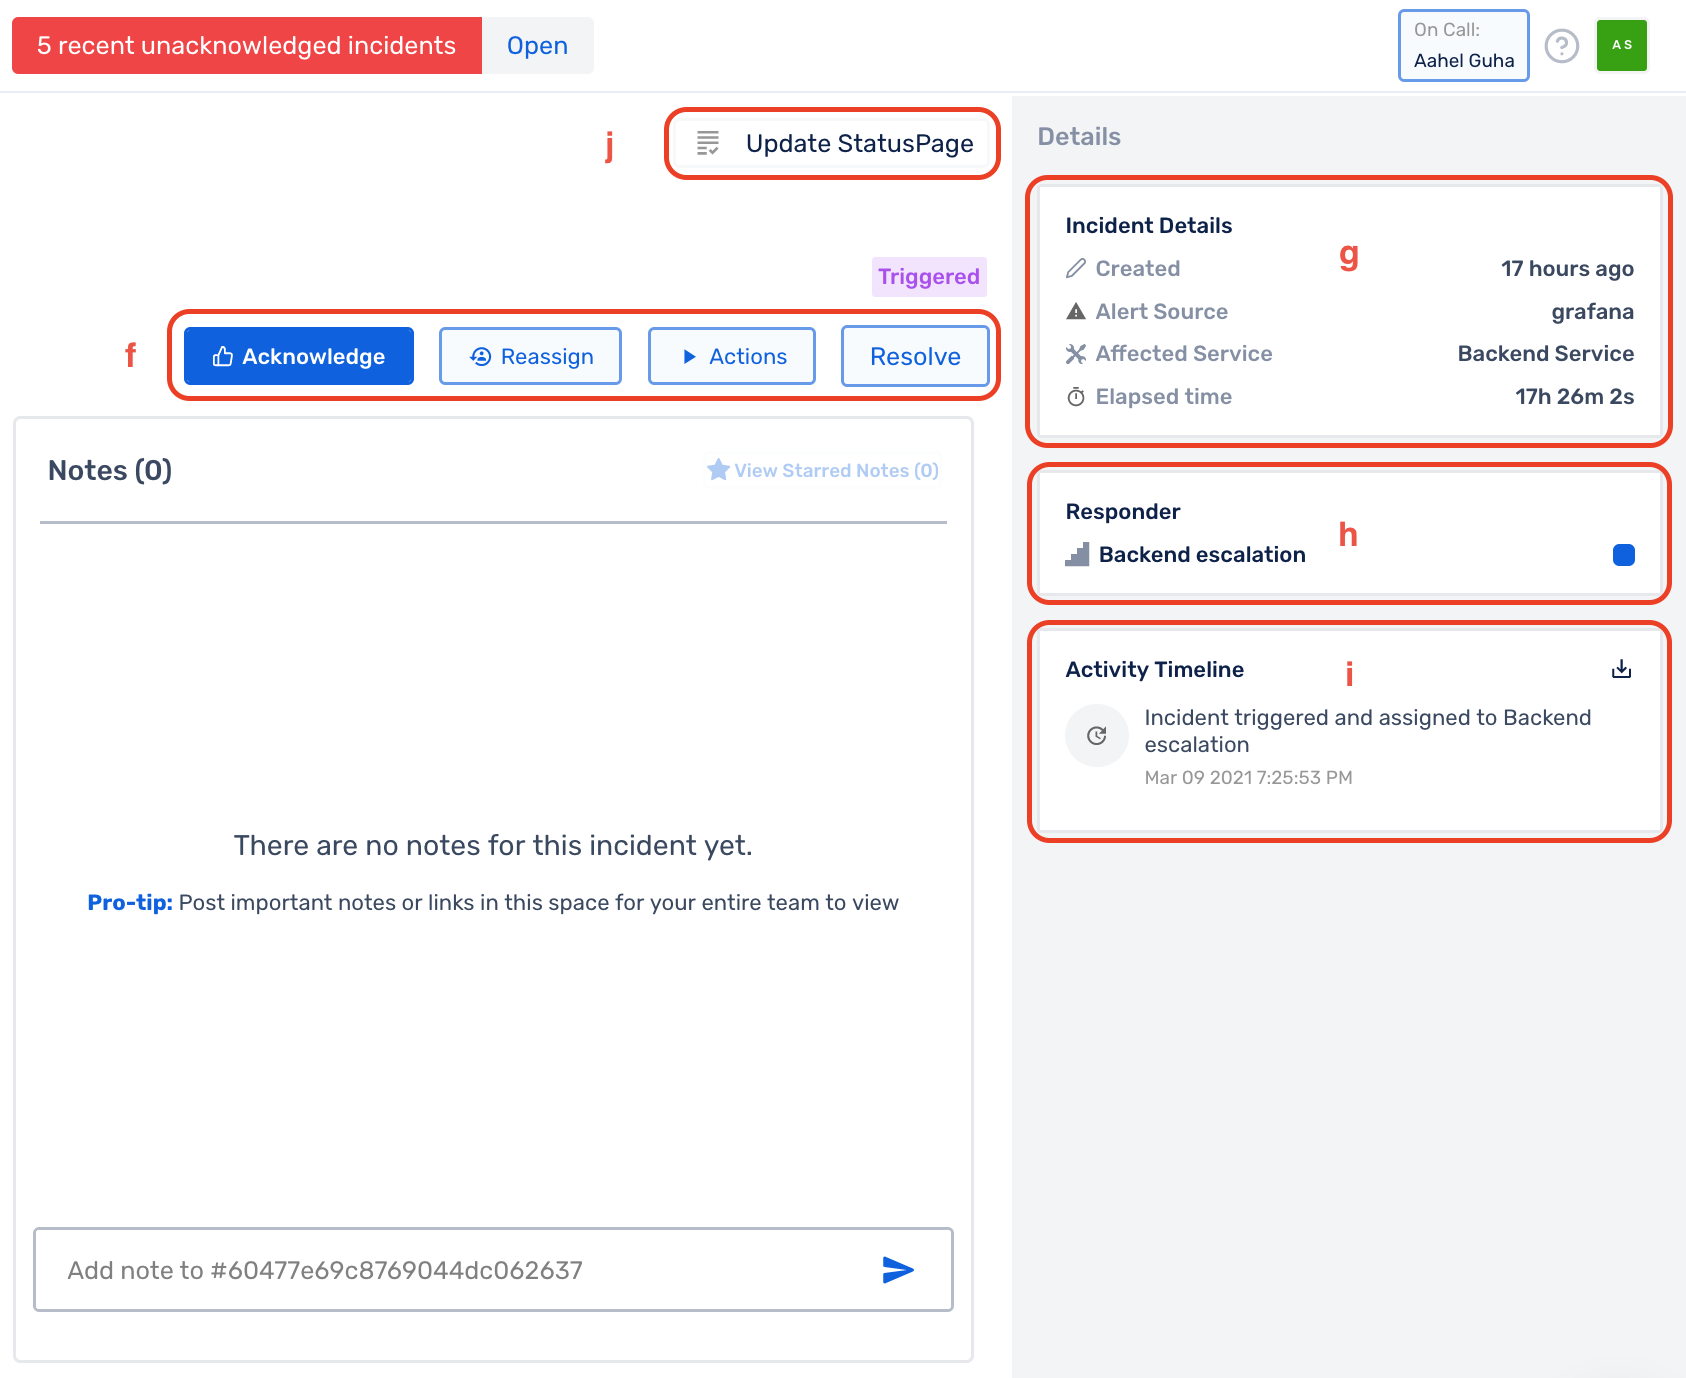
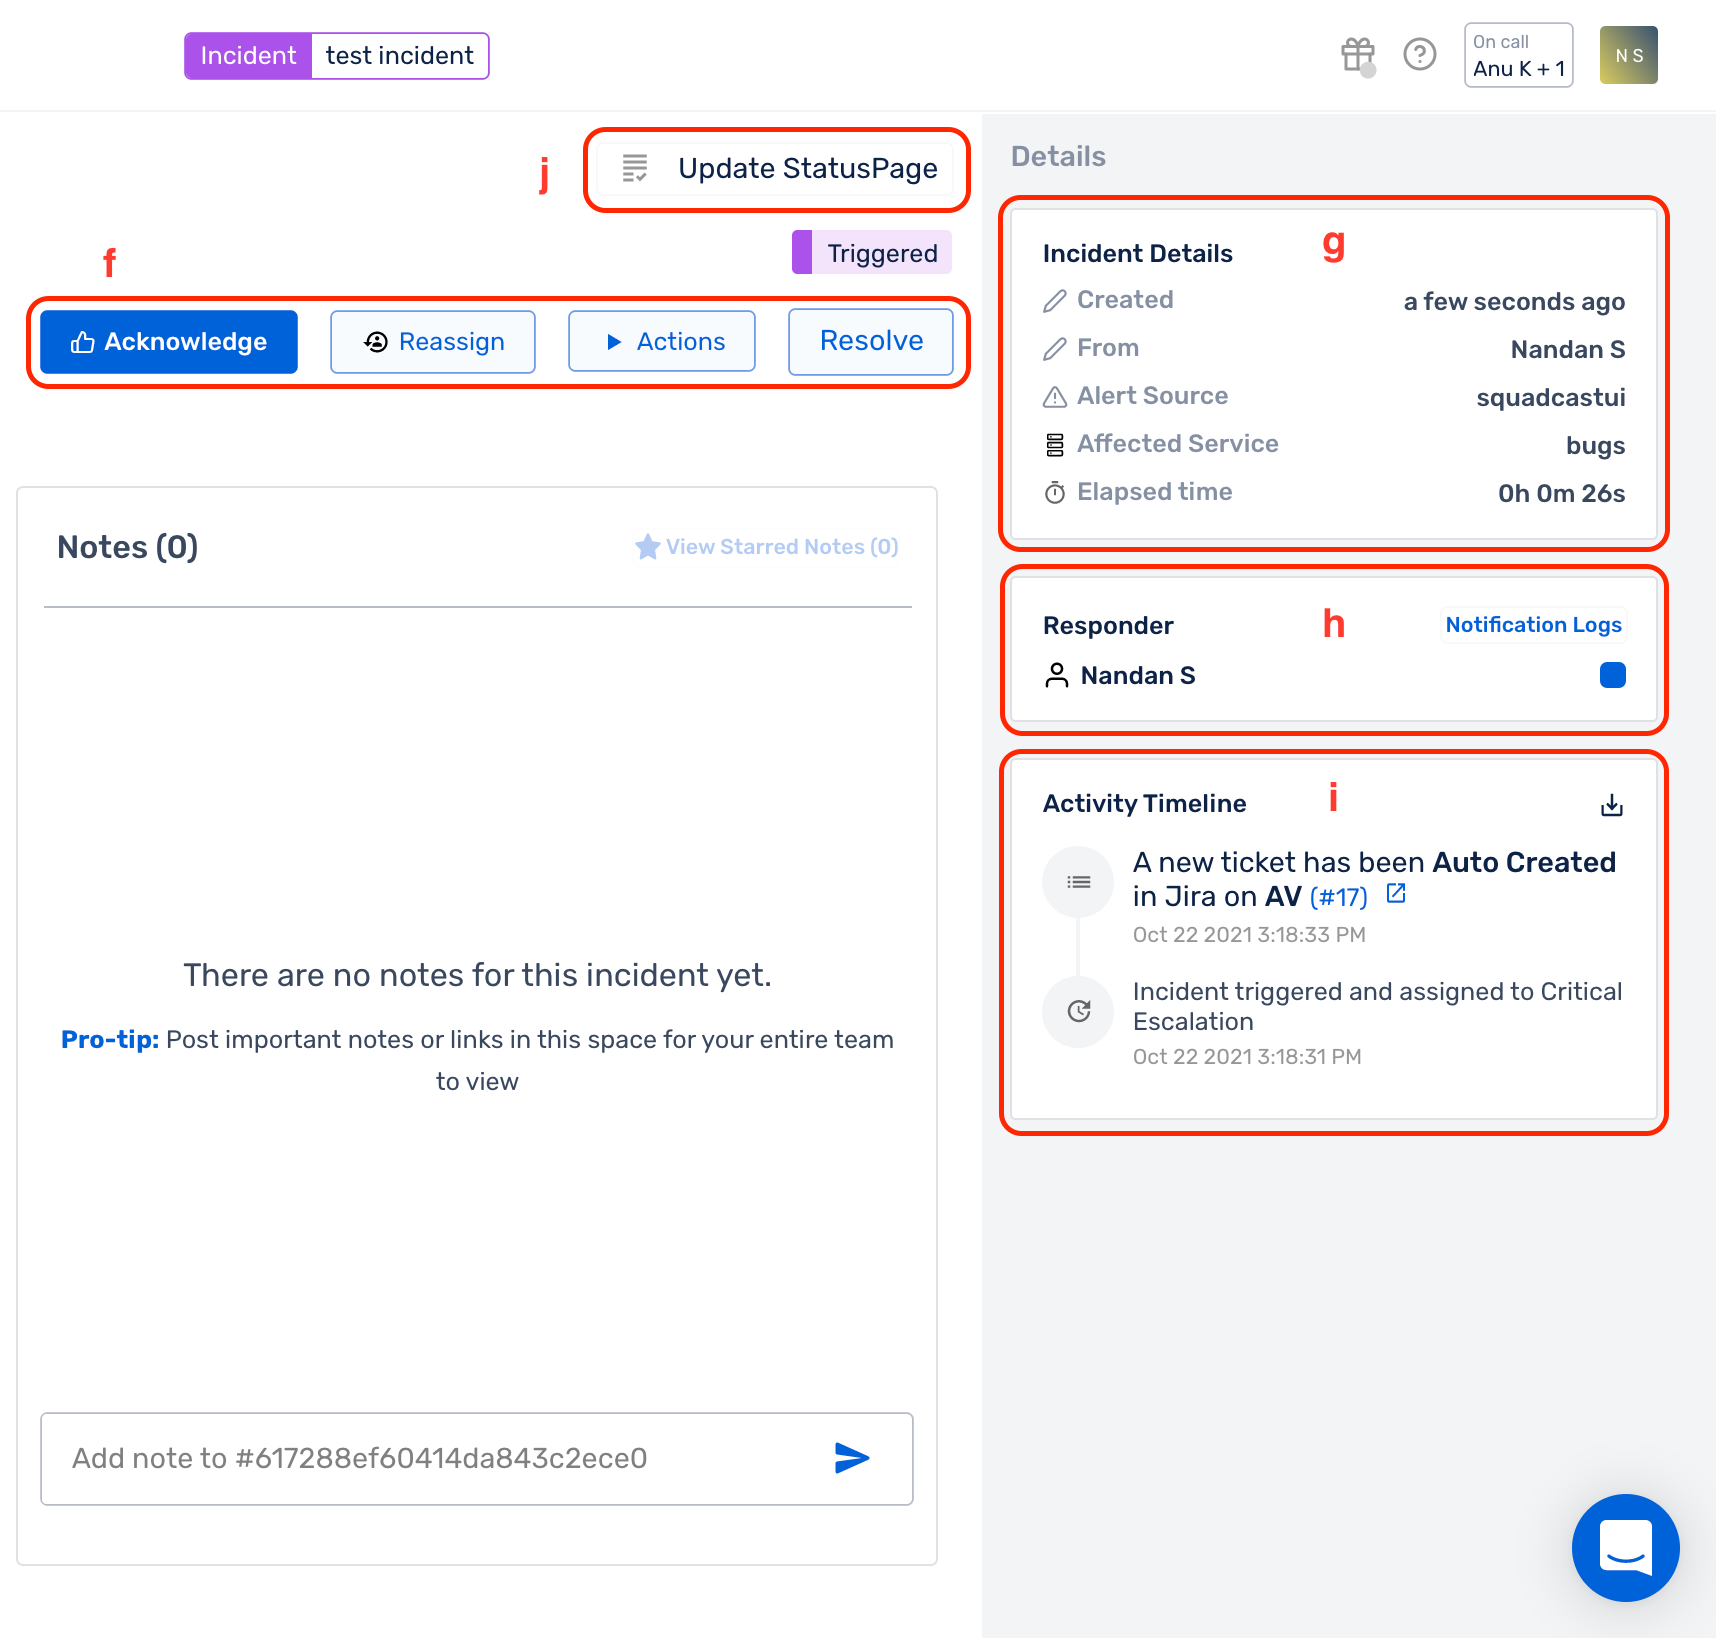
added notification logs docs

diff --git a/pages/mydoc/notification_logs.md b/pages/mydoc/notification_logs.md
@@ -1,0 +1,57 @@
+---
+title: Notification Logs
+tags:
+keywords:
+last_updated:
+summary: "Notification Logs shows details of all the notifications generated for an Incident"
+sidebar: mydoc_sidebar
+permalink: docs/notification-logs
+folder: mydoc
+---
+
+You can access the notification logs for a perticular incident by going into the incident details
+page and clicking on **Notification Logs** in the **Responders** section
+
+![](images/notification_logs_1.png)
+
+**(1)** **User name** of the user
+
+**(2)** **Notification channel** depicted by an icon followed by the destination. Destination for email is the **email address**, **Phone number** for phone calls and SMS. For push notifications destination would show as **push**
+
+**(3)** **status** of the notification.
+
+A notification can have one of the following statuses
+
+_(a)_ _scheduled_: When the notification is scheduled to be sent out from Squadcast.
+
+_(b)_ _dispatched_: When the notification gets sent out from Squadcast and has been accepted by our providers (Plivo/Twilio/Onesignal/Mailgun)
+
+_(c)_ _sent_: When the notification is sent out from our providers to users’ devices.
+
+_(d)_ _delivered_: When notification gets delivered to users' devices.
+
+{{site.data.alerts.yellow-note-i-md}}
+**Note:**
+
+In some cases, notification might have been delivered to users devices, and status can still be set to sent/dispatched. We depend on our vendor who intern depend on hundreds of carriers worldwide to get delivery information. In some rare cases, these logs might not be reliable. Please raise a support ticket in that case so we can collaborate with our vendors.
+
+{{site.data.alerts.end}}
+
+_(e)_ _failed_: When Squadcast is unable to send out the notifications.
+
+_(f)_ _canceled_: Someone might have acknowledged/resolved the incident, hence the rest of the scheduled notification status will be set to canceled.
+
+You can get the _time of delivery_ for notifications that are in status sent or delivered by hovering over them
+
+**(4)** _Time_ at which the notification is/was to be sent.
+
+**(5)** You can refresh for latest data
+
+{{site.data.alerts.yellow-note-i-md}}
+**Note:**
+
+**(1)** You might see multiple push notifications if you have logged in using multiple phones
+
+**(2)** You wont see any push notifications in the logs if you haven't installed and logged in into Squadcast App eventhough you have push in your notification rule
+
+{{site.data.alerts.end}}

diff --git a/pages/mydoc/incident_details.md b/pages/mydoc/incident_details.md
@@ -76,7 +76,7 @@ Hover over the **created** field to view the exact Date and Time of the creation
 - Affected **Service** for which the incident was created
 - **Elapsed time** since the incident got created in Squadcast
 
-**(h)** **Responders** will display the list of all `Users`, `Squads` or `Escalation Policies` that were involved during the lifecycle of the incident
+**(h)** **Responders** will display the list of all `Users`, `Squads` or `Escalation Policies` that were involved during the lifecycle of the incident. Select **[Notification logs](notification-logs)** to open up logs of all the notifications generated for the Incident
 
 **(i)** **[Activity Timeline](incident-timeline)** will indicate the list of all activities performed on this incident in reverse chronological order
 
@@ -103,6 +103,6 @@ Clicking on any of the deduplicated events will display will all the information
 There are certain character limitations for the Incident Message and Incident Description fields. The same is indicated below.
 
 |    Incident Field    | Character Limit |
-|:--------------------:|:---------------:|
+| :------------------: | :-------------: |
 |   Incident Message   |       250       |
 | Incident Description |      15000      |
